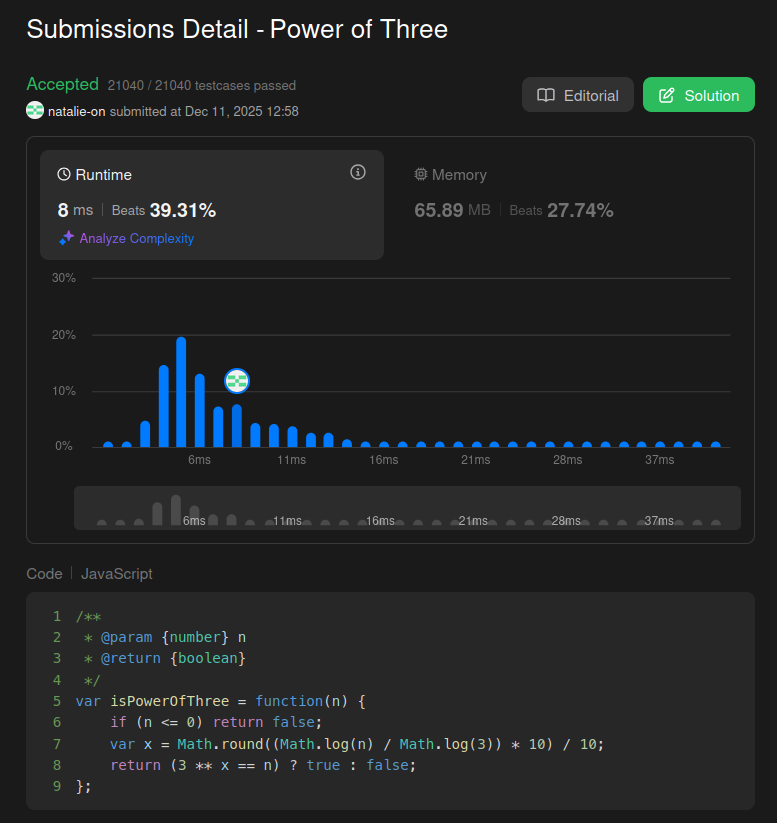
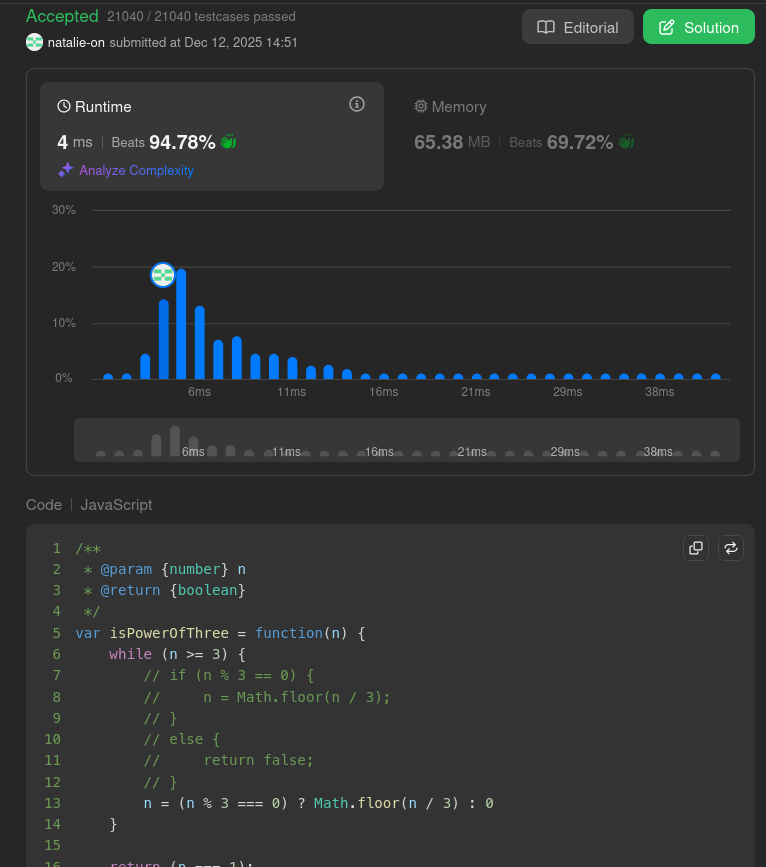
fix: another solution for better performance

diff --git a/javascript/power-of-three/solution.js b/javascript/power-of-three/solution.js
@@ -3,7 +3,9 @@
  * @return {boolean}
  */
 var isPowerOfThree = function(n) {
-    if (n <= 0) return false;
-    const x = Math.round((Math.log(n) / Math.log(3)) * 10) / 10;
-    return (3 ** x == n) ? true : false;
+    while (n >= 3) {
+        n = (n % 3 === 0) ? Math.floor(n / 3) : 0
+    }
+
+    return (n === 1);
 };

diff --git a/javascript/power-of-three/notes.md b/javascript/power-of-three/notes.md
@@ -2,7 +2,8 @@
 ![alt text](image.png)
 
 ## Method:
+- Checks if `n` is a power of three by iteratively dividing by `3`.
 
-- **Input Check:** Return `false` if $n \le 0$. Powers of three must be positive.
--  **Exponent Calculation:** Calculate the potential exponent $x = \frac{\log(n)}{\log(3)}$ and round it to account for floating-point inaccuracies.
-- **Power Validation:** Return `true` if $3$ raised to the rounded power $x$ is equal to $n$ ($3^x = n$).
+- If `n` is divisible, it continues reducing; otherwise, it sets `n` to `0` to stop.
+
+- Returns true only if `n` successfully reduces to `1`.
